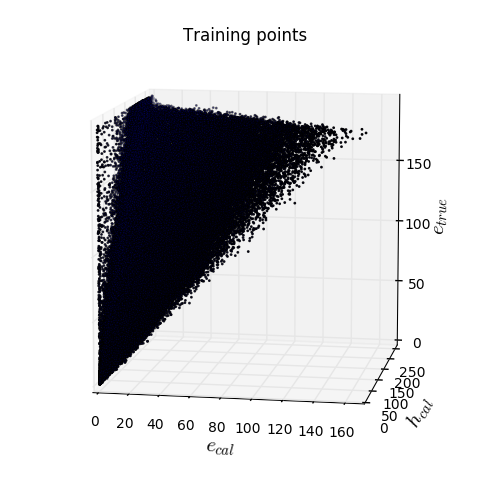
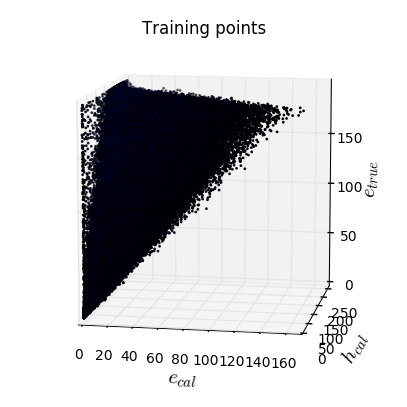
3D plots

diff --git a/pfcalibration/usualplots.py b/pfcalibration/usualplots.py
@@ -306,7 +306,7 @@ def plot3D_training(data1):
     ax.set_xlabel(r'$e_{cal}$',fontsize=15)
     ax.set_ylabel(r'$h_{cal}$',fontsize=15)
     ax.set_zlabel(r'$e_{true}$',fontsize=15)
-    plt.tight_layout()
+
     
 def plot3D_surf(calib,data1):
     ecal = np.arange(0,calib.lim,2)
@@ -323,4 +323,3 @@ def plot3D_surf(calib,data1):
     ax.set_xlabel(r'$e_{cal}$',fontsize=15)
     ax.set_ylabel(r'$h_{cal}$',fontsize=15)
     ax.set_zlabel(r'$e_{true}$',fontsize=15)
-    plt.tight_layout()

diff --git a/README.md b/README.md
@@ -2,8 +2,7 @@
 For the particles flow we need to know the energies of the particles thanks to the hadronic calorimeter and electromagnetic calorimeter.
 We use simulated particles to creates models to obtains a calibrate energy thanks to simulated particles.
 
-![3D plots](img_index/KNNGaussianFit_plot3D_training.png)
-![3D plots](img_index/KNNGaussianFit_plot3D_surf.png)
+![3D plots](img_index/3Dplots.png)
 
 ## Root file to python
 First of all you have to install [ROOT](https://root.cern.ch).

diff --git a/index.md b/index.md
@@ -2,8 +2,7 @@
 For the particles flow we need to know the energies of the particles thanks to the hadronic calorimeter and electromagnetic calorimeter.
 We use simulated particles to creates models to obtains a calibrate energy thanks to simulated particles.
 
-![3D plots](img_index/KNNGaussianFit_plot3D_training.png)
-![3D plots](img_index/KNNGaussianFit_plot3D_surf.png)
+![3D plots](img_index/3Dplots.png)
 
 ## Root file to python
 First of all you have to install [ROOT](https://root.cern.ch).
